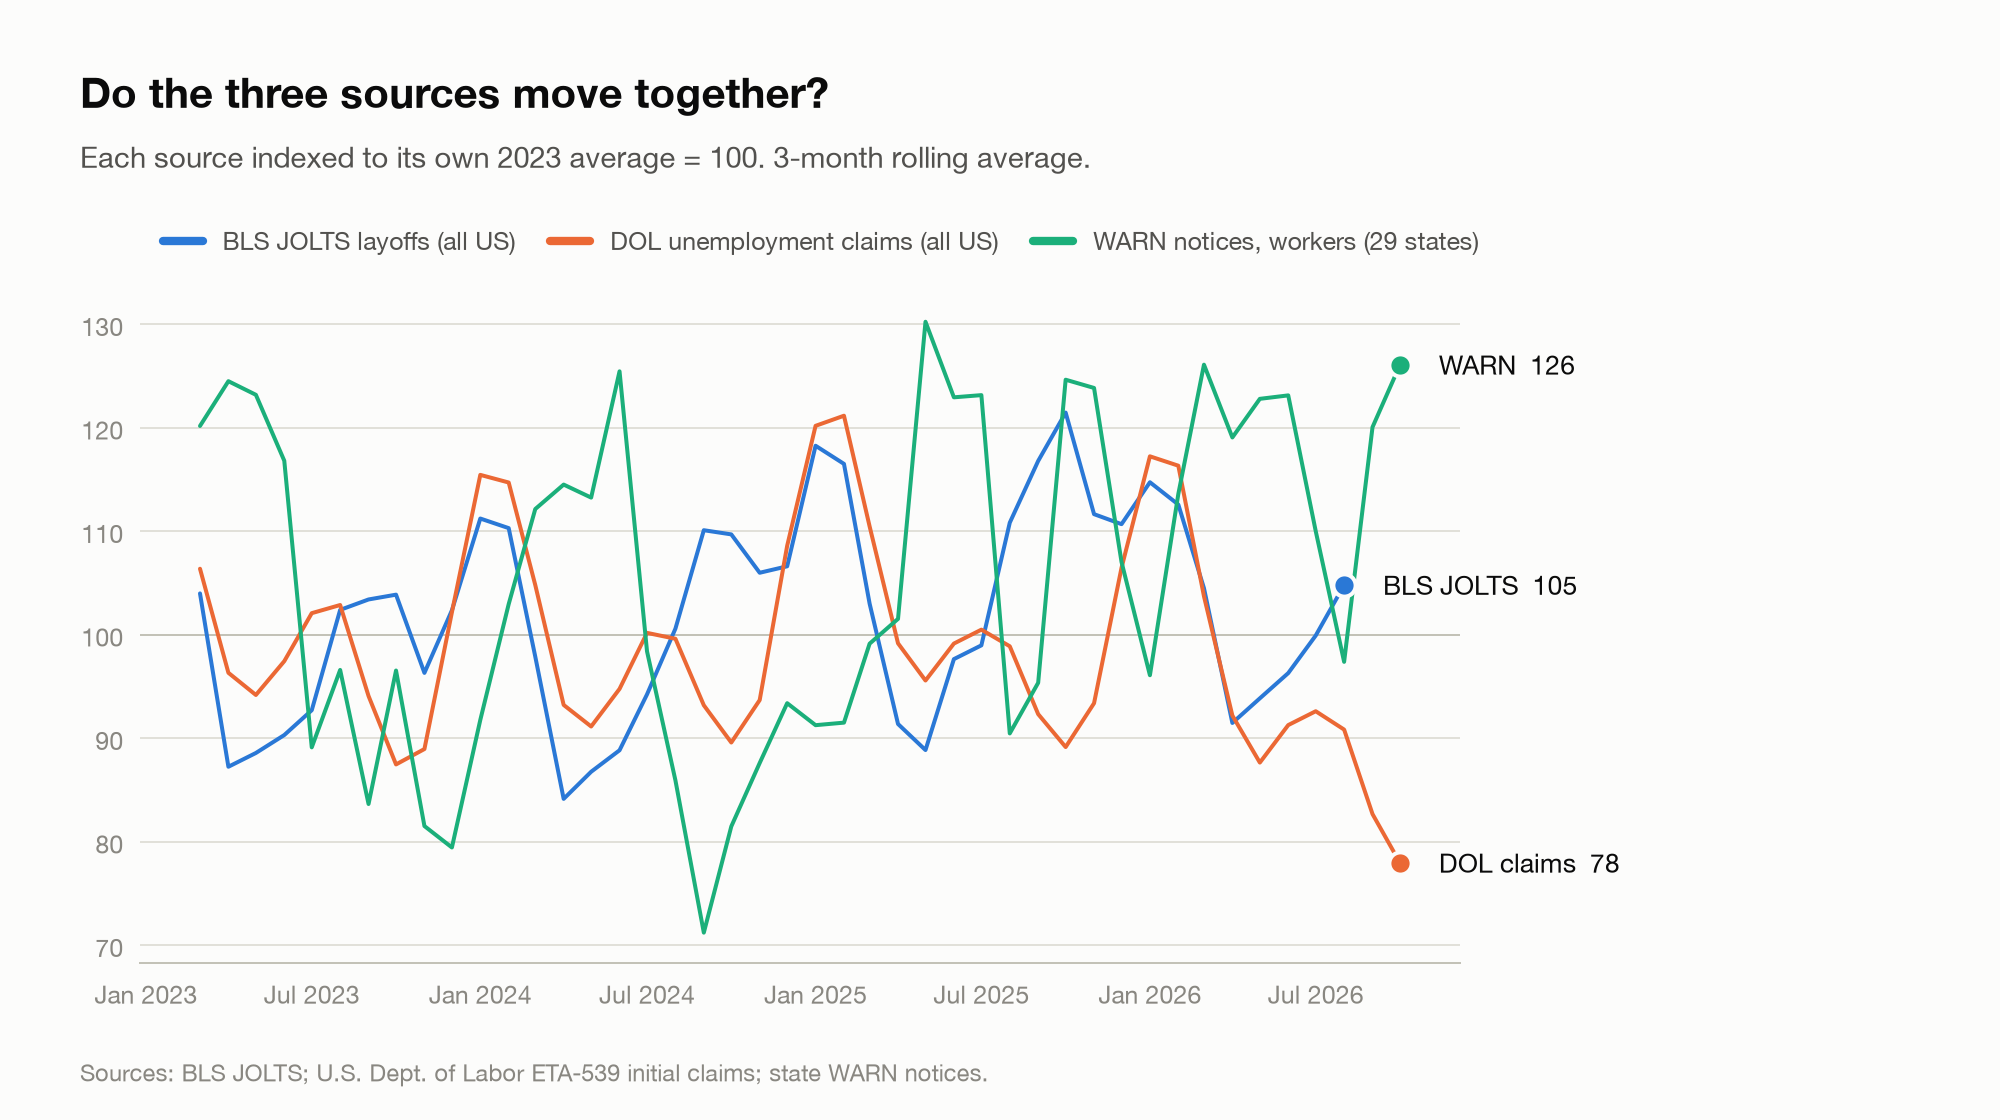
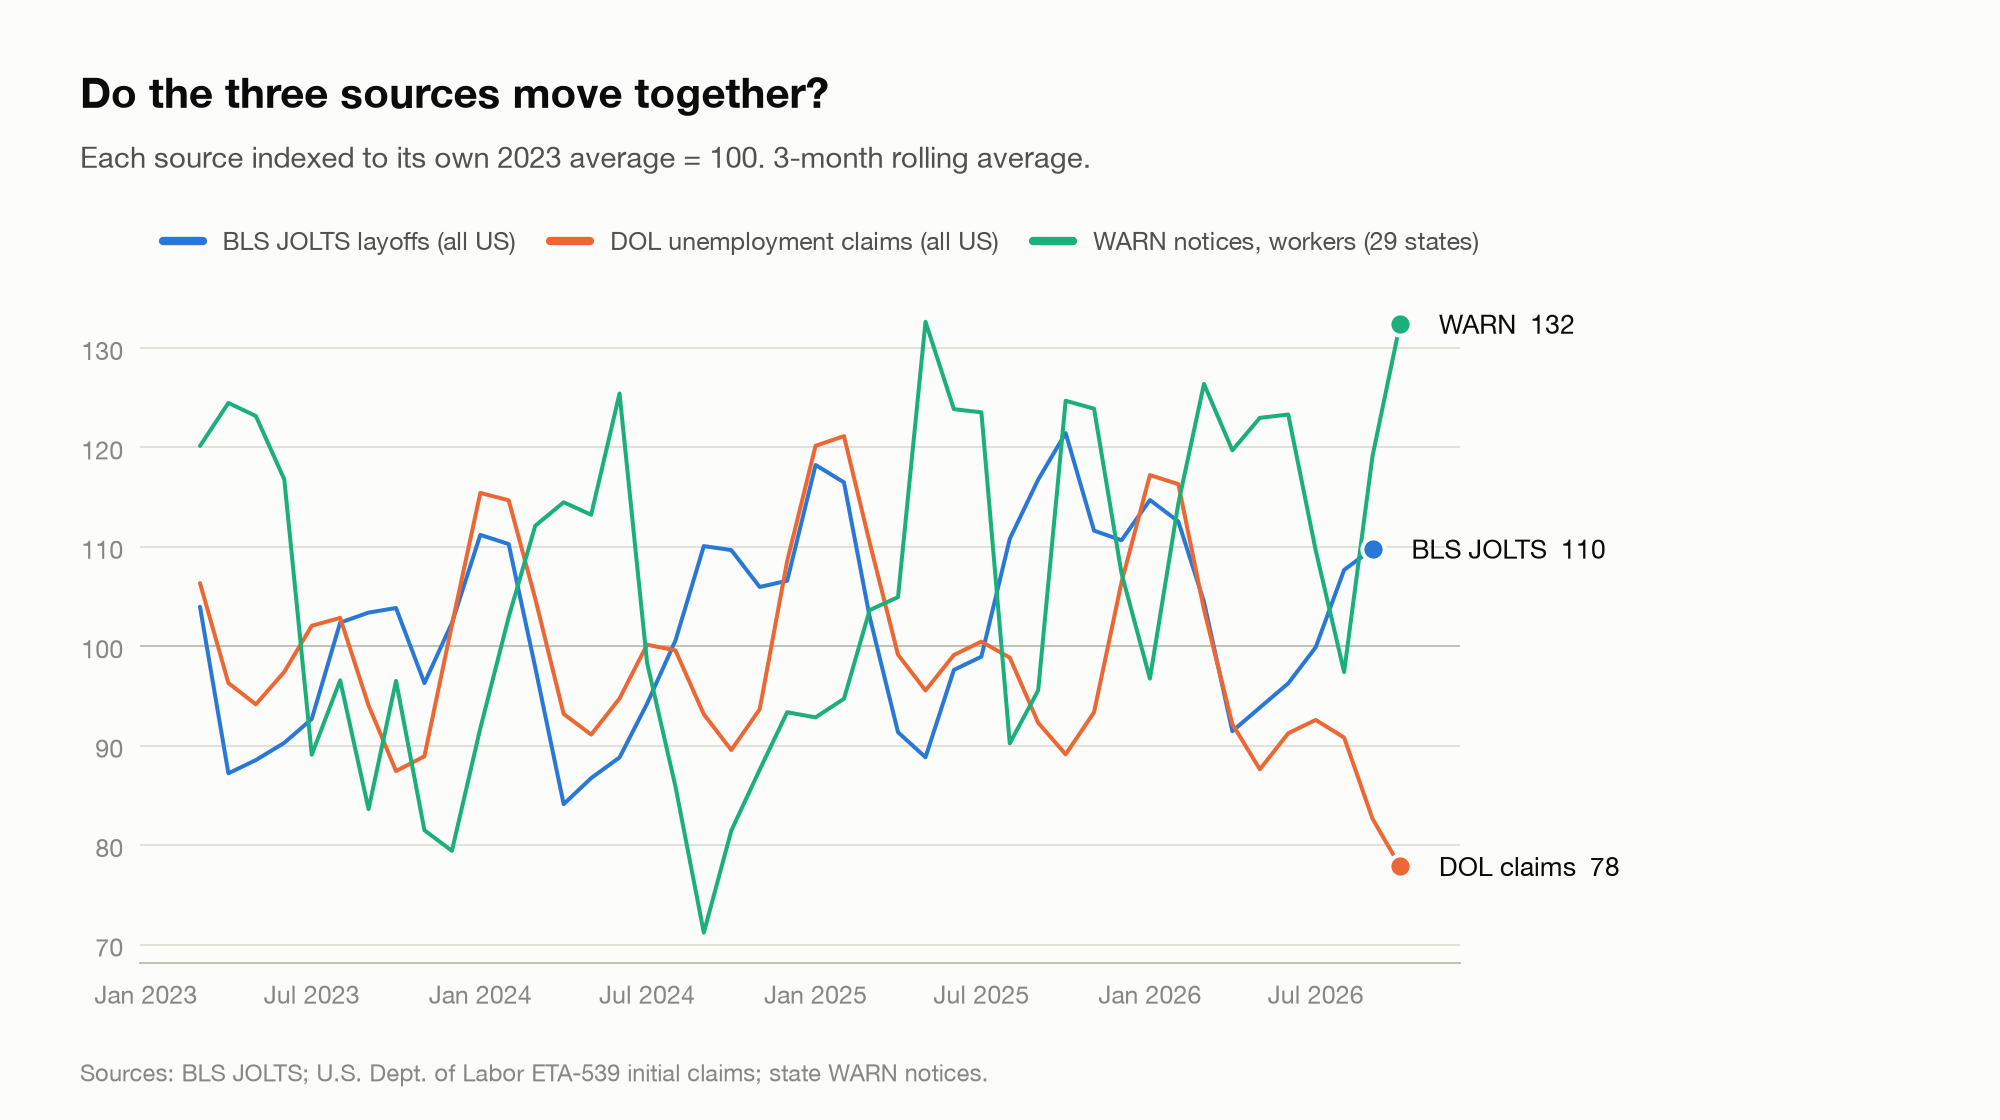
Update data through November 2026

diff --git a/README.md b/README.md
@@ -22,7 +22,7 @@ No single source tells the whole story, so each one checks the others.
 ## Results
 
 <!-- RESULTS:START -->
-_Last updated November 02, 2026. Generated automatically by `make_charts.py`._
+_Last updated November 05, 2026. Generated automatically by `make_charts.py`._
 
 ### Key numbers
 
@@ -30,19 +30,19 @@ _Last updated November 02, 2026. Generated automatically by `make_charts.py`._
 |---|---|
 | US layoffs & discharges in 2025 (BLS) | **21.24M** |
 | Change vs 2024 | **+6.1%** |
-| 2026 so far (8 months), average per month | **1.69M** |
-| Latest month (August 2026, preliminary) | **1.83M** |
-| WARN notices since 2023 (29 states) | **10,072** notices, **887K** workers |
+| 2026 so far (9 months), average per month | **1.71M** |
+| Latest month (September 2026, preliminary) | **1.77M** |
+| WARN notices since 2023 (29 states) | **10,122** notices, **894K** workers |
 
 ### Findings
 
 - BLS counted **21.24M** layoffs and discharges in 2025, **+6.1%** compared with 2024 (20.01M).
-- Through August 2026, 2026 averages **1.69M a month**, **-4.7%** versus the 2025 monthly average.
+- Through September 2026, 2026 averages **1.71M a month**, **-3.3%** versus the 2025 monthly average.
 - States with the most layoffs and discharges in 2025: **CA** (2.4M), **TX** (1.7M), **NY** (1.5M).
-- Notices of 1,000+ workers were **0.5%** of WARN notices but **12.7%** of the workers named in them.
+- Notices of 1,000+ workers were **0.5%** of WARN notices but **12.8%** of the workers named in them.
 - Largest single WARN notice since 2023: **Tend Exchange Subsidiary LLC and Delaware Tender Staffing
 LLC** (nan, CA), **16,132** workers, May 2025.
-- Trend match with BLS (rank correlation, 1 = same direction every month): unemployment claims **0.32**, WARN **-0.37**.
+- Trend match with BLS (rank correlation, 1 = same direction every month): unemployment claims **0.28**, WARN **-0.34**.
 
 ### Charts
 
@@ -61,7 +61,7 @@ LLC** (nan, CA), **16,132** workers, May 2025.
 | 2023 | 12 | 19.85M | 1.65M |
 | 2024 | 12 | 20.01M | 1.67M |
 | 2025 | 12 | 21.24M | 1.77M |
-| 2026 | 8 | 13.49M | 1.69M |
+| 2026 | 9 | 15.41M | 1.71M |
 
 <picture>
   <source media="(prefers-color-scheme: dark)" srcset="docs/charts/sources_trend-dark.png">
@@ -148,11 +148,11 @@ LLC** (nan, CA), **16,132** workers, May 2025.
 | Dallas | TX | 35 | 6,018 |
 | Hillsboro | OR | 25 | 5,845 |
 | Houston | TX | 55 | 5,650 |
-| Portland | OR | 63 | 5,169 |
+| Portland | OR | 65 | 5,242 |
 | San Antonio | TX | 47 | 5,154 |
 | Redmond | WA | 19 | 4,642 |
 | New York | NY | 58 | 4,249 |
-| Fort Worth | TX | 31 | 4,165 |
+| Phoenix | AZ | 46 | 4,221 |
 
 <picture>
   <source media="(prefers-color-scheme: dark)" srcset="docs/charts/size_mix-dark.png">
@@ -161,10 +161,10 @@ LLC** (nan, CA), **16,132** workers, May 2025.
 
 | Layoff size | Notices | Share of notices | Workers | Share of workers |
 |---|---|---|---|---|
-| Small (<50) | 4,802 | 50.2% | 78,475 | 8.8% |
-| Medium (50-249) | 4,183 | 43.7% | 453,899 | 51.2% |
-| Large (250-999) | 535 | 5.6% | 242,218 | 27.3% |
-| Mega (1000+) | 45 | 0.5% | 112,381 | 12.7% |
+| Small (<50) | 4,815 | 50.1% | 78,746 | 8.8% |
+| Medium (50-249) | 4,201 | 43.8% | 456,004 | 51.0% |
+| Large (250-999) | 540 | 5.6% | 245,242 | 27.4% |
+| Mega (1000+) | 46 | 0.5% | 113,986 | 12.8% |
 
 ### How to read this
 

diff --git a/docs/RESULTS.md b/docs/RESULTS.md
@@ -1,6 +1,6 @@
 # Results
 
-_Last updated November 02, 2026. Generated automatically by `make_charts.py`._
+_Last updated November 05, 2026. Generated automatically by `make_charts.py`._
 
 ### Key numbers
 
@@ -8,19 +8,19 @@ _Last updated November 02, 2026. Generated automatically by `make_charts.py`._
 |---|---|
 | US layoffs & discharges in 2025 (BLS) | **21.24M** |
 | Change vs 2024 | **+6.1%** |
-| 2026 so far (8 months), average per month | **1.69M** |
-| Latest month (August 2026, preliminary) | **1.83M** |
-| WARN notices since 2023 (29 states) | **10,072** notices, **887K** workers |
+| 2026 so far (9 months), average per month | **1.71M** |
+| Latest month (September 2026, preliminary) | **1.77M** |
+| WARN notices since 2023 (29 states) | **10,122** notices, **894K** workers |
 
 ### Findings
 
 - BLS counted **21.24M** layoffs and discharges in 2025, **+6.1%** compared with 2024 (20.01M).
-- Through August 2026, 2026 averages **1.69M a month**, **-4.7%** versus the 2025 monthly average.
+- Through September 2026, 2026 averages **1.71M a month**, **-3.3%** versus the 2025 monthly average.
 - States with the most layoffs and discharges in 2025: **CA** (2.4M), **TX** (1.7M), **NY** (1.5M).
-- Notices of 1,000+ workers were **0.5%** of WARN notices but **12.7%** of the workers named in them.
+- Notices of 1,000+ workers were **0.5%** of WARN notices but **12.8%** of the workers named in them.
 - Largest single WARN notice since 2023: **Tend Exchange Subsidiary LLC and Delaware Tender Staffing
 LLC** (nan, CA), **16,132** workers, May 2025.
-- Trend match with BLS (rank correlation, 1 = same direction every month): unemployment claims **0.32**, WARN **-0.37**.
+- Trend match with BLS (rank correlation, 1 = same direction every month): unemployment claims **0.28**, WARN **-0.34**.
 
 ### Charts
 
@@ -39,7 +39,7 @@ LLC** (nan, CA), **16,132** workers, May 2025.
 | 2023 | 12 | 19.85M | 1.65M |
 | 2024 | 12 | 20.01M | 1.67M |
 | 2025 | 12 | 21.24M | 1.77M |
-| 2026 | 8 | 13.49M | 1.69M |
+| 2026 | 9 | 15.41M | 1.71M |
 
 <picture>
   <source media="(prefers-color-scheme: dark)" srcset="../docs/charts/sources_trend-dark.png">
@@ -126,11 +126,11 @@ LLC** (nan, CA), **16,132** workers, May 2025.
 | Dallas | TX | 35 | 6,018 |
 | Hillsboro | OR | 25 | 5,845 |
 | Houston | TX | 55 | 5,650 |
-| Portland | OR | 63 | 5,169 |
+| Portland | OR | 65 | 5,242 |
 | San Antonio | TX | 47 | 5,154 |
 | Redmond | WA | 19 | 4,642 |
 | New York | NY | 58 | 4,249 |
-| Fort Worth | TX | 31 | 4,165 |
+| Phoenix | AZ | 46 | 4,221 |
 
 <picture>
   <source media="(prefers-color-scheme: dark)" srcset="../docs/charts/size_mix-dark.png">
@@ -139,10 +139,10 @@ LLC** (nan, CA), **16,132** workers, May 2025.
 
 | Layoff size | Notices | Share of notices | Workers | Share of workers |
 |---|---|---|---|---|
-| Small (<50) | 4,802 | 50.2% | 78,475 | 8.8% |
-| Medium (50-249) | 4,183 | 43.7% | 453,899 | 51.2% |
-| Large (250-999) | 535 | 5.6% | 242,218 | 27.3% |
-| Mega (1000+) | 45 | 0.5% | 112,381 | 12.7% |
+| Small (<50) | 4,815 | 50.1% | 78,746 | 8.8% |
+| Medium (50-249) | 4,201 | 43.8% | 456,004 | 51.0% |
+| Large (250-999) | 540 | 5.6% | 245,242 | 27.4% |
+| Mega (1000+) | 46 | 0.5% | 113,986 | 12.8% |
 
 ### How to read this
 
